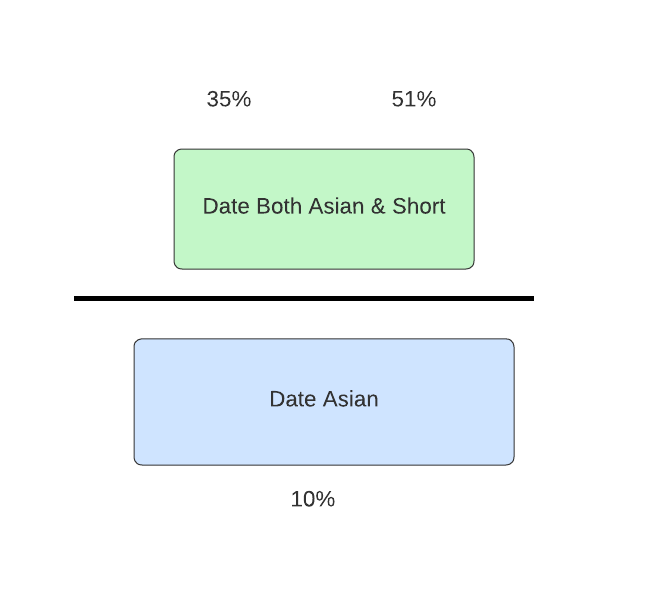
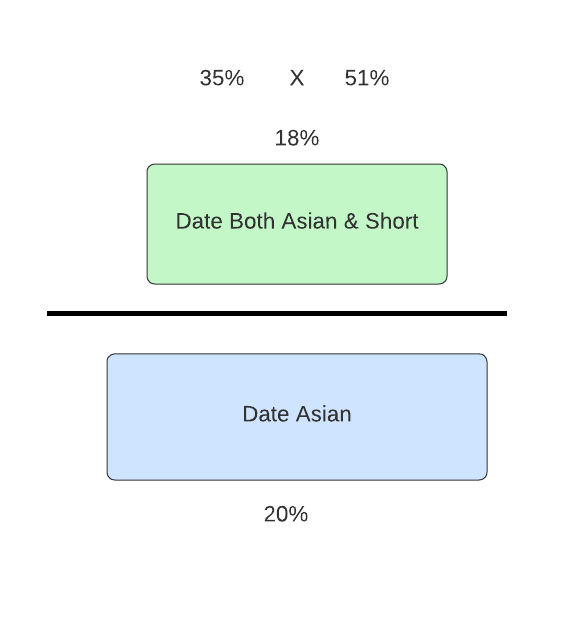
update post

diff --git a/_posts/2023-09-02-bayes-thereom.md b/_posts/2023-09-02-bayes-thereom.md
@@ -3,7 +3,7 @@
 ## Bayes Theorem
 
 
-Probability is always easy with examples, especially engaging ones.
+Probability is always easier with examples, especially engaging ones.
 
 For this we'll picture you're a short Asian guy on a dating app (aka me off and on several years ago). After reading this depressing [article](https://theconversation.com/asian-guys-stereotyped-and-excluded-in-online-dating-130855) you come to realize that 90% of non-Asian women want nothing to do with you (romantically that is). Yet you continue swiping with a false feeling that you're special, with your current odds of being 10% chance of matching if the person is non-Asian (successful assimilation has made you primarily attracted to non-Asian females).
 
@@ -11,10 +11,10 @@ For sake of argument and because a 10% square is tough to visualize we'll say th
 
 As you're swiping you come across an attractive white brunette and after some Instagram sleuthing, you've seen that her ex-boyfriend was Asian (and presumably still is). Hooray! But then you remember you're short.
 
-However, since she's the same height you still have a shot? 51% of women would date men the same height or shorter than them after all [article](https://fivethirtyeight.com/features/how-common-is-it-for-a-man-to-be-shorter-than-his-partner/)
+However, since she's the same height you still have a shot? 51% of women would date men the same height or shorter than them after all based on this [Five Thirty Eight](https://fivethirtyeight.com/features/how-common-is-it-for-a-man-to-be-shorter-than-his-partner/) article you read.
 
 
-Based on an article (that you can no longer find) you know that 35% of those that are willing to date short guys are also open to date Asians as well.
+Based on another article (that you can no longer find) you know that 35% of those that are willing to date short guys are also open to date Asians as well.
 
 So given these stats you oddly have memorized and the the new information gained from your Instagram sleuthing (creeping) how have your odds changed?
 
@@ -42,13 +42,15 @@ Neat!
 
 So we've just been defining the sample space through drawing shapes with random sizes, let's apply the evidence we've learned along with some of the weird stats you were stating earlier.
 
-Given, only 51% of women would date a shorter man (this may be inflated but we'll run with it), we can adjust the orange square to cover about half of the cirlce. Also, since we know that Asian
+Given, only 51% of women would date a shorter man (this may be inflated but we'll run with it), we can adjust the orange square to cover about half of the cirlce. Also, since we know that 20% of non-Asian women would date an Asian man we'll adjust that square as well to cover about 1/5 of the circle.
 
 ![asian and short adjusted size](/docs/assets/2023-09-05/3-asian_shor4_universe_adjusted_size.png)
 
 
 
-So the new evidence we've learned is that your prospective beau is open to dating Asian men due to her past relationship. As a result we can filter down to the world in which women are open to dating Asian men. 
+So we've as a result defined our sample space! Or in other words created squares with areas based on their respective probabilities. Currently we're looking at the whole universe of non-Asian women, however we do know more. 
+
+The new evidence we learned earlier is that your prospective beau is open to dating Asian men due to her past relationship. As a result we can filter down to the world in which women are open to dating Asian men. 
 
 Circled.
 
@@ -59,26 +61,29 @@ Filtered.
 ![filtered universe](/docs/assets/2023-09-05/5-filtered-universe.png)
 
 
-So we've updated the world to account for our evidence (that she is open to dating asian)
+So we've updated the world to account for our evidence (that she is open to dating an Asian guy). 
 
 
-Our updated question becomes, what's the probability that given 
-we take these areas 
-![filtered universe](/docs/assets/2023-09-05/6-bayes-formula-setup.png)
+Our updated question becomes, what's the probability that given she dates an Asian guy she dates a short Asian guy (aka you)?
 
-So really what we need is a way to define the areas with probabilities 
+It seems rather simple if we remember that the areas = probabilities. We'd really just want to take the area that represents Asian and short men and divide that by the area of all non-Asian women that date Asian men (since this is the complete filtered world we're currently in). 
 
-![filtered universe](/docs/assets/2023-09-05/7-bayes-formula-probability.png)
+So it would look something like this:
 
-
+![bayes formula setup](/docs/assets/2023-09-05/6-bayes-formula-setup.png)
 
 
-TO NARROW DOWN TO THIS WE NEED TO MULTIPLY X WITH Y
+We need a way to define the filtered area. We simply apply the probabilities that helped us to filter down to this specific scenario in the first place.
+
+![bayes formula setup w probability](/docs/assets/2023-09-05/7-bayes-formula-probability.png)
+
+So you're at a whopping: 90%!
 
 
-**Bayes Theorem**
+Through the drawing, filtering and applying random stats we just applied the Bayes Theorem. 
 
-\[P(A|B) = \frac{P(B|A) \cdot P(A)}{P(B)}\]
+$ P(A | B) = \frac{P(B | A) \cdot P(A)}{P(B)} $
+
 
 Where:
 - \(P(A|B)\) is the posterior probability of event A given event B.
@@ -87,14 +92,24 @@ Where:
 - \(P(B)\) is the prior probability of event B.
 
 
+And in our example: 
+
 Where:
-- \(P(Date Short | Date Asian)\) is the probability of dating a short guy given she's open to dating an Asian guy
+- \(P(Date Short | Date Asian)\) is the probability of dating a short guy given she's open to dating an Asian guy - what we're trying to figure out
 - \(P(Date Asian | Date Short)\) is the probability of dating an Asian guy given she dates a short guy - 35%
 - \(P(Date Short)\) is the prior probability of event A - 51%
-- \(P(Date Asian)\) is the prior probability of event B - 10%
+- \(P(Date Asian)\) is the prior probability of event B - 20%
 
 
 
+But you're also broke and live in a basement which there are no squares for in the circle.
+
+
+
+
+
+
+**Bayes Theorem**
 # Probbility Ch. 5 Ace Data Science Interview
 
 
